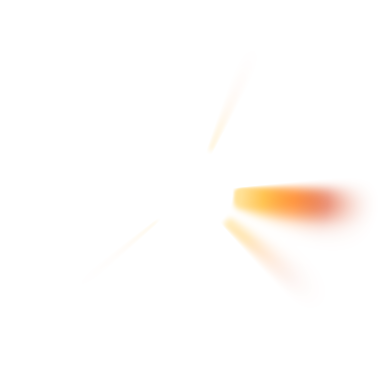
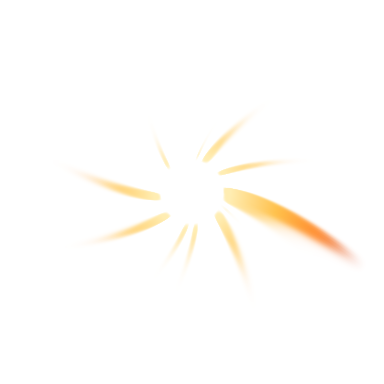
Gem light reads over the picture: flares leaping off the stellar gem, dark matter pulled into the anomaly
The light is five gem-widths across again and much bolder, so it shows over busy pictures. A stellar
gem throws short tongues of fire, wide at the root and tapering, that leap out and fade by turns; an
anomaly draws violet-rimmed arms of dark matter round and down into its hole.

Claude-Session: https://claude.ai/code/session_01AGgLXhEWFDWnAiYRCGkagM

diff --git a/src/styles.css b/src/styles.css
@@ -5046,3 +5046,11 @@ button.cmp-turn { display: flex; align-items: baseline; gap: 6px; padding: 5px 1
   -webkit-mask: radial-gradient(circle at 50% calc(100% - var(--gem-s) * 0.2376), transparent var(--notch-r), #000 calc(var(--notch-r) + 0.6px));
   mask: radial-gradient(circle at 50% calc(100% - var(--gem-s) * 0.2376), transparent var(--notch-r), #000 calc(var(--notch-r) + 0.6px));
 }
+/* (The light images are now five gem-widths across.) The stellar flares leap out and fade by turns; the anomaly's
+   dark matter turns inward and is drawn down into the hole, over and over. */
+.card .gem .gem-light { inset: -200%; -webkit-mask: linear-gradient(180deg, #000 53%, transparent 64%); mask: linear-gradient(180deg, #000 53%, transparent 64%); }
+.gl-flares1 { animation: glTurn 200s linear infinite, glPlume 5s ease-out infinite; animation-delay: calc(var(--gp) * -200s), calc(var(--gp) * -5s); }
+.gl-flares2 { animation: glTurnBack 260s linear infinite, glPlume 6.5s ease-out infinite; animation-delay: calc(var(--gp) * -260s), calc(var(--gp) * -6.5s - 3s); }
+.gl-swirl1 { animation: glTurn 14s linear infinite, glPull 6s ease-in infinite; animation-delay: calc(var(--gp) * -14s), calc(var(--gp) * -6s); }
+.gl-swirl2 { animation: glTurn 22s linear infinite, glPull 9s ease-in infinite; animation-delay: calc(var(--gp) * -22s), calc(var(--gp) * -9s - 4s); }
+@keyframes glPull { 0% { scale: 1.18; opacity: 0; } 20% { opacity: 1; } 75% { opacity: 0.9; } 100% { scale: 0.82; opacity: 0; } }

diff --git a/scripts/render_gem_light.py b/scripts/render_gem_light.py
@@ -7,7 +7,7 @@ sun's corona streaming out in curling streamers and swelling plumes, a black hol
 dark aura, its dust lanes spiralling in round its bright lensed ring. Each is a few layers that CSS turns, breathes and
 flickers out of step (styles.css, "The rarity gem's light"), so the light never repeats.
 
-Each image is nearly four gem-widths across with the gem in the middle (its window, radius G, is left dark: the
+Each image is five gem-widths across with the gem in the middle (its window, radius G, is left dark: the
 gem covers it). Alpha carries the light, so it reads over the white card and over the picture alike.
 """
 import os
@@ -22,7 +22,7 @@ c = (N - 1) / 2
 dx, dy = (x - c) / (N / 2), (y - c) / (N / 2)
 r = np.hypot(dx, dy)
 th = np.arctan2(dy, dx)
-G = 0.26           # the gem's radius, in this image's half-widths (the image is 1 / G gem-widths across)
+G = 0.2            # the gem's radius, in this image's half-widths (the image is 1 / G gem-widths across)
 px = 2 / N         # one pixel, in the same units
 
 
@@ -140,13 +140,21 @@ for i, (seed, warp) in enumerate([(31, 0.3), (32, -0.25)]):   # the corona: soft
     L.add(1.4 * np.exp(-near / 0.05), CORE)
     L.save(f'light-sun-corona{i + 1}.png')
 
-for i, seed in enumerate([41, 42]):   # plumes: two or three broad tongues of corona rooted at the rim, which CSS swells and fades
-    L = Light()
-    tongue = around(seed, 360, 9, turn=np.pi * 0.85 * i)          # (the second set faces another way)
-    q = np.quantile(tongue, 0.8)
-    tongue = np.clip((tongue - q) / (1 - q), 0, 1) ** 1.3
-    texture = polar_noise(seed + 50, 540, 128, 2.5, 18, 0.25 if i == 0 else -0.25)
-    L.add(7.0 * tongue * (0.6 + 0.5 * texture) * np.exp(-near / (0.14 + 0.1 * tongue)), sun_heat(0.1 + near / 0.5))
+def ring_noise(seed, n, blur):
+    g = np.random.default_rng(seed)
+    ring = gaussian_filter(g.random(n), blur, mode='wrap'); return (ring - ring.min()) / (ring.max() - ring.min())
+
+for i, seed in enumerate([41, 42]):   # flares: three or four tongues of fire leaping off the rim, wide at the root,
+    L = Light()                       # tapering and curling as they go; CSS swells them outward and fades them in turn
+    ring = ring_noise(seed, 360, 5)
+    q = np.quantile(ring, 0.68); ring = np.clip((ring - q) / (1 - q), 0, 1)
+    warp = 0.25 if i == 0 else -0.25
+    ang = ((th - np.pi * 0.85 * i - warp * np.log(np.maximum(r, 1e-3) / G)) % (2 * np.pi)) / (2 * np.pi) * 360
+    tongue = np.interp(ang, np.arange(361), np.append(ring, ring[0]))
+    tongue = tongue ** (1 + near * 3.5)                             # narrower further out
+    texture = polar_noise(seed + 50, 540, 128, 1.8, 16, warp)
+    reach = np.exp(-near / (0.05 + 0.2 * tongue))
+    L.add(20.0 * tongue * (0.6 + 0.5 * texture) * reach, sun_heat(near / 0.75))
     L.save(f'light-sun-flares{i + 1}.png')
 
 # ---------------------------------------------------------------- Anomaly: light dragged round a black hole
@@ -154,12 +162,17 @@ LILAC, VIOLET, NIGHT, VOID = [0.9, 0.84, 1.0], [0.6, 0.4, 1.0], [0.2, 0.06, 0.34
 
 # Dark light: what pours out of a black hole is shadow, a violet-black aura reaching over the card as far as a sun's
 # corona does, with darker dust lanes swirling into it; only its thin lensed ring is bright.
-for i, (seed, k, gain) in enumerate([(51, 2.2, 5.5), (52, 1.5, 4.0)]):   # dark dust lanes along spirals: noise, swirled
+for i, (seed, k) in enumerate([(51, 2.4), (52, 1.7)]):   # arms of dark matter along spirals, rimmed in violet light
     L = Light()
-    lanes = polar_noise(seed, 720, 128, 2.0, 18, k)
-    broad = polar_noise(seed + 100, 240, 128, 6, 10, k)
-    lane = (0.25 + 0.75 * np.clip(lanes * 1.6 - 0.6, 0, 1) ** 1.6) * (0.35 + 0.8 * broad)
-    L.add(gain * lane * np.exp(-near / (0.1 + 0.1 * broad)), mix(NIGHT, VOID, near / 0.35))
+    arms = polar_noise(seed, 360, 128, 6.0, 14, k)               # a few broad arms
+    fine = polar_noise(seed + 100, 1080, 128, 1.2, 18, k)        # streaks within them
+    q = np.quantile(arms[r < 1], 0.55)
+    arm = np.clip((arms - q) / (arms.max() - q), 0, 1)
+    body = arm ** 0.8 * (0.55 + 0.6 * fine)
+    rim = np.clip(arm * (1 - arm) * 4, 0, 1) ** 2 * (0.5 + 0.7 * fine)  # the arms' edges catch the light
+    fall = np.exp(-near / 0.3)
+    L.add(11.0 * body * fall, mix(NIGHT, VOID, near / 0.35))
+    L.add(2.0 * rim * fall, mix(LILAC, VIOLET, near / 0.3))
     L.save(f'light-hole-swirl{i + 1}.png')
 
 L = Light()   # the bright lensed ring just outside the socket, rippling, inside a soft dark halo
